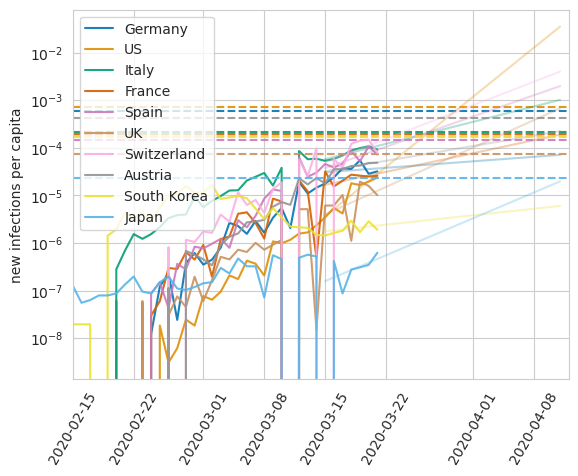
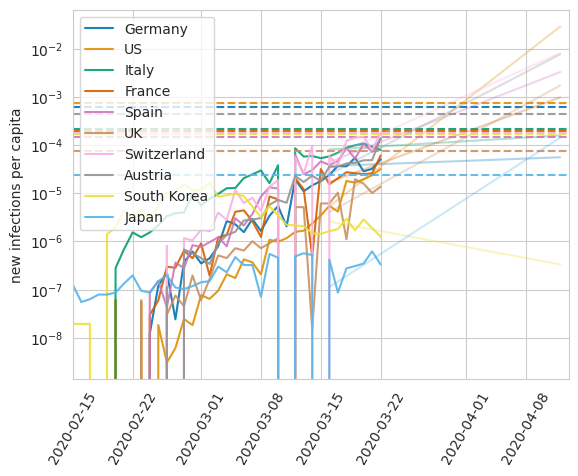
Update README.md

diff --git a/README.md b/README.md
@@ -22,11 +22,16 @@ Three plots are generated:
 
 This is the number of registered confirmed cases divided by the population size. This number is suspected to lag around 7 - 9 days behind the actual infections because the average incubation period is 5 days and there is a 2 - 4 days delay for testing and registration. Since the growth rate for most countries with an exponential outbreak is currently around 30%, this number can be multiplied by approximately 10 to get an estimate of the actual number of currently infected people.
 
-The dashed lines indicate **very rough estimates** of the ICU capacities for COVID-19 patients in each country. E.g. Germany has 29.2 ICUs per 100,000 people with a default occupancy (i.e. non-Corona patients) of 80%. Therefore, these are only 0.2*29.2 = 5.84 ICUs for the Corona patients. Moreover, approximately 6% of the COVID-19 infected require ICU treatment. Thus, 0.097% of the population can maximally become sick simultaneously. Every country (that is cherry-picked in the `python` script) has an ICU capacity attached to it that I gathered from those two sources:
+The dashed lines indicate **very rough estimates** of the maximum ICU capacities for COVID-19 patients in each country. It is based on the country-specific default ICU capacities that are gathered from these sources:
 - https://link.springer.com/article/10.1007/s00134-012-2627-8
 - https://link.springer.com/article/10.1007/s00134-015-4165-7
+- https://en.wikipedia.org/wiki/List_of_countries_by_hospital_beds#Numbers
 
-In addition, an assumed absolute minimum ICU capacity for non-Corona patients of 3.5 ICUs per 100000 gets subtracted.  This is an arbitrary number that seems somehow reasonable to me given that some countries can maintain a good-ish health system with only 4.5 ICUs per 100000 (e.g. Japan, Portugal). 
+
+To get the COVID-19 capacities, an absolute minimum ICU capacity for non-Corona patients of 3.5 ICUs per 100,000 gets subtracted. This is a best-guess number that seems somehow reasonable to me since some countries can maintain a good-ish health system with only 4.5 ICUs per 100000 (e.g. Japan, Portugal).
+Moreover, approximately 6% of the known COVID-19 infected require ICU treatment.
+
+E.g. Germany has 29.2 ICUs per 100,000 people. Therefore, these are only 29.2 - 3.5 = 25.7 ICUs for the Corona patients. Thus, 25.7/100,000/0.06 ~ 0.4% of the population can maximally become sick simultaneously.
 
 ### estimated cases per capita based on the deaths per capita
 
@@ -46,3 +51,13 @@ In order to compare different countries, I found it therefore reasonable to esti
 ![](png/countries_rate.png)
 
 This is the number of newly registered infections divided by the number of confirmed infections from the day before. It contains less countries than the other plots for clearness.
+
+### daily infected
+
+![](png/countries_new_infections.png)
+
+This is the number of daily registered new infections divided by the population size. The dashed lines here indicate a health system capacity estimate based on
+- 6% ICU treatment rate for confirmed COVID-19 patients
+- 1 week ICU care for each of these patients
+- absolute minimum ICU capacity for non-COVID-19 patients of 3.5 ICUs/100,000 (see above)
+This plot is inspired by [this video by Harald Lesch](https://www.youtube.com/watch?v=Fx11Y4xjDwA).
